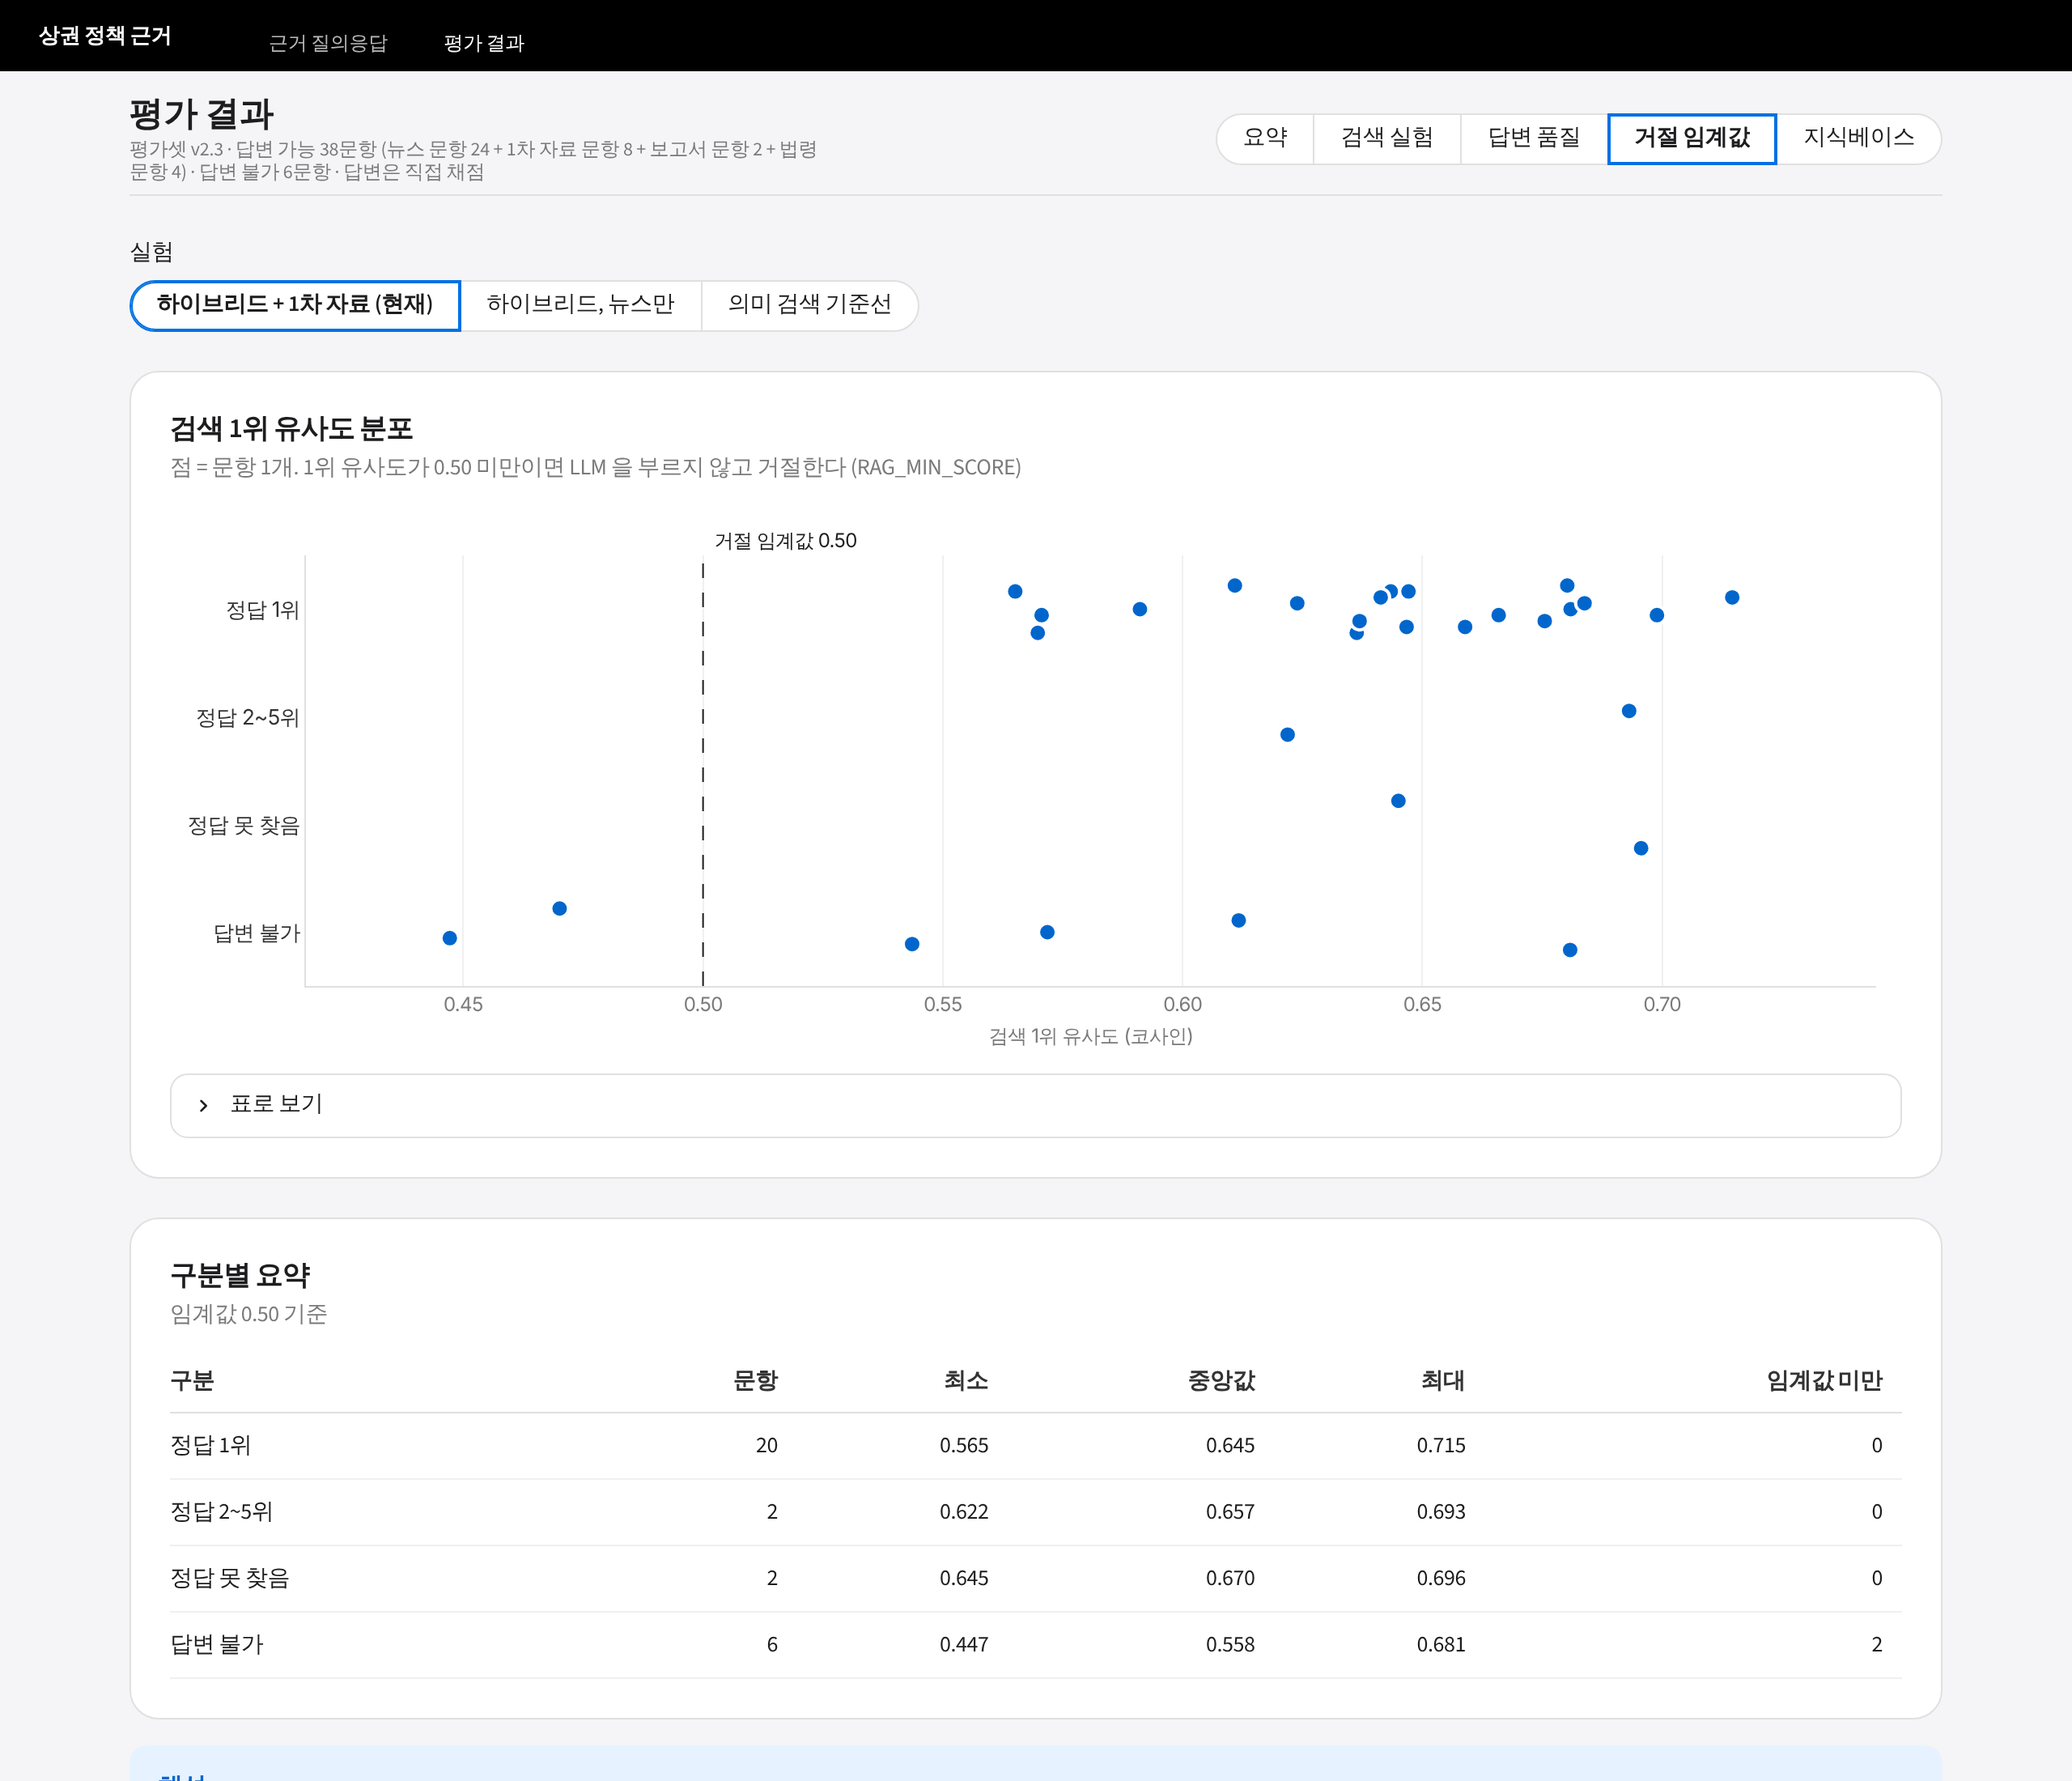
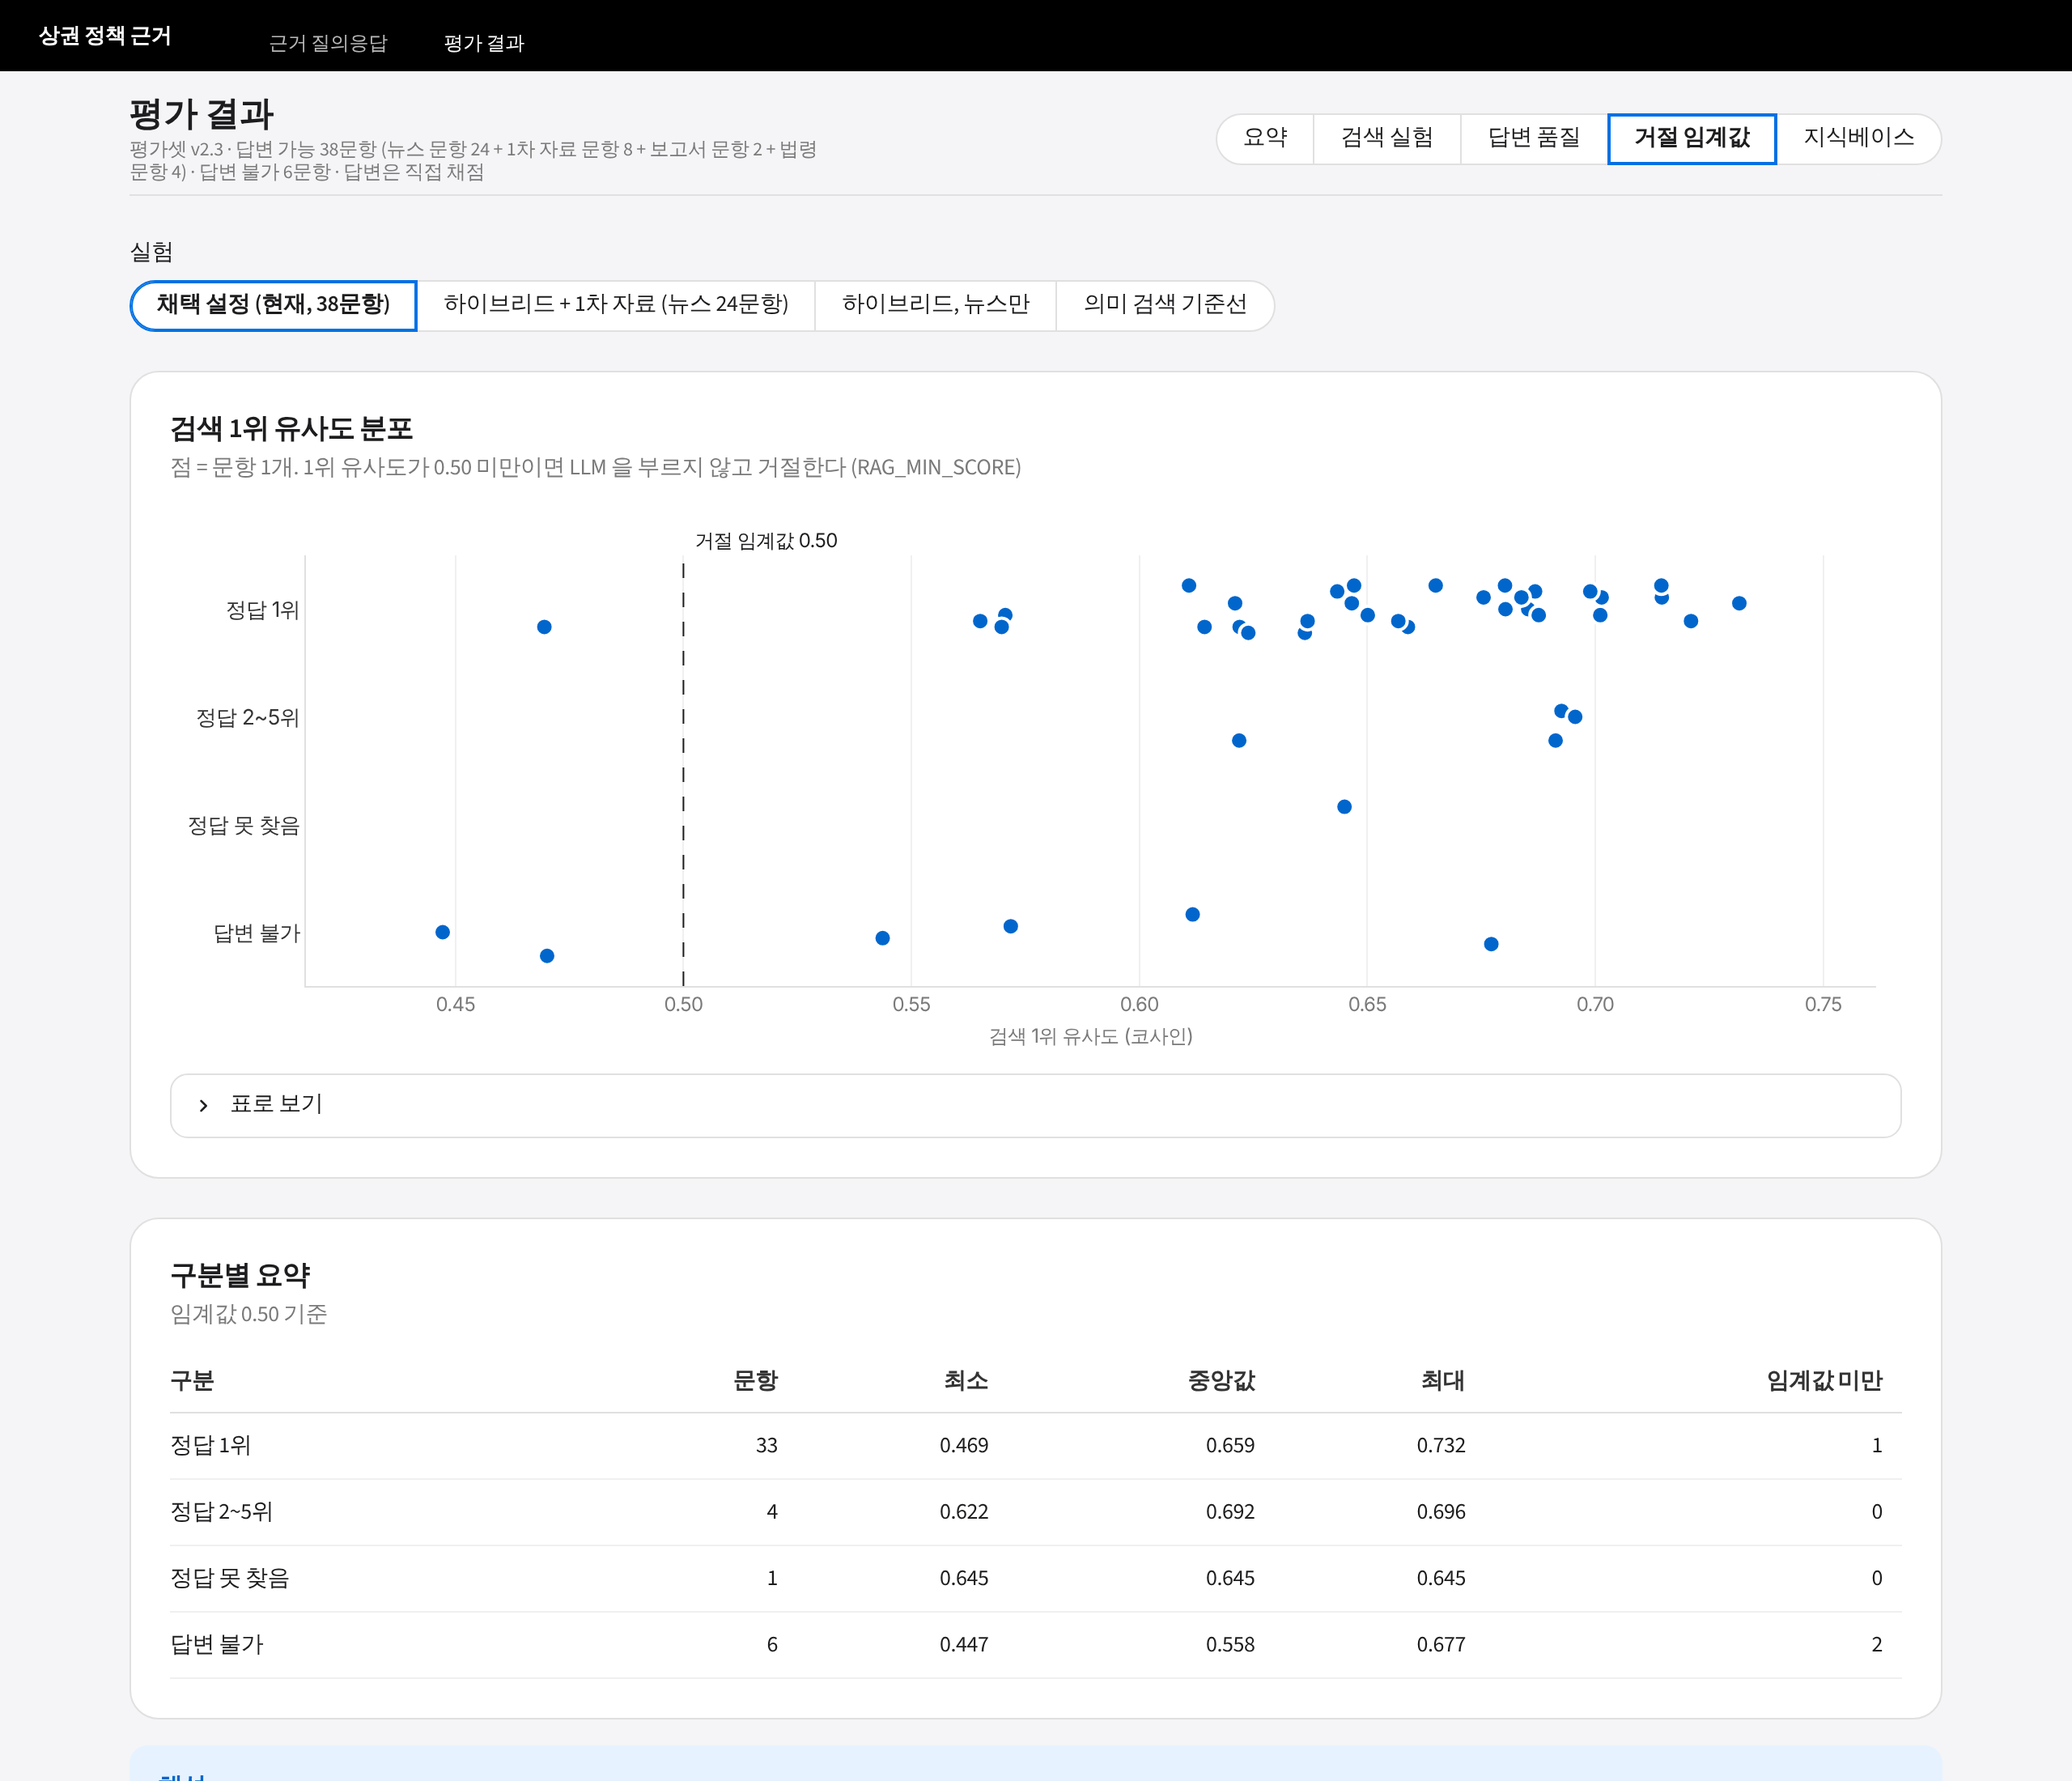
Base the threshold section on the final setting
Report 6.4 labelled its table "current knowledge base" but used the
kb2 run (24 news questions, before reports and laws), and the
dashboard marked that run "(current)". The table, text and dashboard
default now use the adopted kb4 run (38 questions): f021 at 0.4695 is
the only answerable question below 0.5, unanswerable range 0.447-0.677,
and a 0.68 threshold would reject 21 of 38. f021 is ranked 1st in all
final runs, so "1~3위" is corrected to "1위". Screenshot recaptured.

Claude-Session: https://claude.ai/code/session_01JVxi6QMSDH1QLEa5AgUpfM

diff --git a/app/experiments.py b/app/experiments.py
@@ -217,7 +217,8 @@ ADOPTED_RETRIEVAL_RUN = "20261105-0458_hybrid-c500-ctx2-kb4-r1-v2.3groups"
 
 # 거절 임계값 근거: 답변 불가 문항까지 포함한 검색 실험 (30문항)
 THRESHOLD_RUNS: tuple[RunRef, ...] = (
-    RunRef("20261104-1035_hybrid-c500-kb2-pdffix", "하이브리드 + 1차 자료 (현재)"),
+    RunRef("20261105-0458_hybrid-c500-ctx2-kb4-r1-v2.3groups", "채택 설정 (현재, 38문항)"),
+    RunRef("20261104-1035_hybrid-c500-kb2-pdffix", "하이브리드 + 1차 자료 (뉴스 24문항)"),
     RunRef("20261104-1019_hybrid-c500-v1.3", "하이브리드, 뉴스만"),
     RunRef("20261103-1702_baseline-c500-v1.2", "의미 검색 기준선"),
 )

diff --git a/report/report.md b/report/report.md
@@ -293,7 +293,7 @@ flowchart LR
 - 단계별로는 32문항 57.3%(1차 자료) → 61.5%(분해) → 62.5%(보고서), 34문항 64.7%(보고서) → 67.6%(법령 추가 후 같은 34문항, 실행 간 변동 범위)다.
   보고서·법령 문항을 더한 38문항은 65.8% 다 (7장).
 - 평균 응답 시간은 검색과 생성을 합쳐 2.5초다 (p95 4.6초). 비교 표현이 있는 질문에만 분해 LLM 호출이 더해진다.
-- 잘못된 거절은 f021 하나다. 정답 보도자료를 1~3위로 찾지만 1위 유사도가 0.47 로 임계값 미만이다 (8장).
+- 잘못된 거절은 f021 하나다. 정답 보도자료를 1위로 찾지만 1위 유사도가 0.47 로 임계값 미만이다 (8장).
 - 분해 전 잘못된 거절이던 t011·c003 은 거절 대신 시점이 다른 근거로 틀린 답을 한다 (8장). 등급은 같은 오답이지만 사용자에게는 더 위험한 실패다.
 
 ### 6.3 질문 유형별 정확도 (문항 × 3회 합산)
@@ -315,18 +315,18 @@ flowchart LR
 
 ![거절 임계값](img/dashboard-threshold.png)
 
-| 구분 (현재 지식베이스) | 문항 | 1위 유사도 범위 | 0.5 미만 |
+| 구분 (채택 설정, 평가셋 v2.3) | 문항 | 1위 유사도 범위 | 0.5 미만 |
 |---|---|---|---|
-| 정답이 1위 | 20 | 0.565 ~ 0.715 | 0 |
-| 정답이 2~5위 | 2 | 0.622 ~ 0.693 | 0 |
-| 정답을 상위 5건에서 못 찾음 | 2 | 0.645 ~ 0.696 | 0 |
-| 답변 불가 | 6 | 0.447 ~ 0.681 | 2 |
+| 정답이 1위 | 33 | 0.469 ~ 0.732 | 1 (f021) |
+| 정답이 2~5위 | 4 | 0.622 ~ 0.696 | 0 |
+| 정답을 상위 5건에서 못 찾음 | 1 | 0.645 | 0 |
+| 답변 불가 | 6 | 0.447 ~ 0.677 | 2 (u005·u009) |
 
-- 임계값 0.5 는 1위 유사도 분포를 보고 정했다.
-  - 이 값에서 뉴스 문항의 답변 가능 문항은 검색 단계에서 하나도 걸리지 않는다 (최솟값 0.565).
-  - 1차 자료 문항 f021(0.484)은 걸린다 (8장).
-- **유사도만으로는 답변 불가를 가를 수 없다.** 답변 불가 질문도 주제가 비슷한 기사가 검색되기 때문에, 답변 불가 6문항 중 4개가 0.5 이상이다 (최댓값 0.681).
-- 답변 불가를 모두 유사도로 거르려면 임계값이 0.68 을 넘어야 한다. 그러면 답변 가능 문항 대부분(중앙값 0.645)이 함께 거절된다.
+- 임계값 0.5 는 뉴스 24문항 시점(평가셋 v1.2)의 1위 유사도 분포를 보고 정했다. 그때는 답변 가능 문항이 하나도 걸리지 않았다 (최솟값 0.570).
+  - 최종 설정에서는 1차 자료 문항 f021(0.4695)이 걸린다. 정답 보도자료를 1위로 찾고도 검색 단계에서 거절한다 (8장).
+- **유사도만으로는 답변 불가를 가를 수 없다.** 답변 불가 질문도 주제가 비슷한 기사가 검색되기 때문에, 답변 불가 6문항 중 4개가 0.5 이상이다 (최댓값 0.677).
+  f021(0.4695)과 u005(0.470)는 사실상 같은 값이라 임계값을 조정해도 둘을 가를 수 없다.
+- 답변 불가를 모두 유사도로 거르려면 임계값이 0.68 을 넘어야 한다. 그러면 답변 가능 38문항 중 21개(중앙값 0.662)가 함께 거절된다.
 - 그래서 나머지는 생성 단계의 거절 규칙이 막는다. 실제로 3회 모두 6문항 전부 거절했다.
 
 ### 6.5 평가셋 밖 문항 (holdout, `eval/holdout.jsonl`)
@@ -486,7 +486,7 @@ flowchart LR
 
 | 문항 | 증상 | 원인 계층 | 판단 근거 |
 |---|---|---|---|
-| f021 부담경감 크레딧 | 3회 잘못된 거절 | **검색 (임계값)** | 정답 보도자료를 1~3위로 찾지만 1위 유사도가 0.47 로 임계값(0.5) 미만이다. 긴 보도자료 속 여러 사업 중 하나라 청크에서 사업명 비중이 희석된다. 키워드 1~2위면 0.44 이상도 통과시키는 규칙을 검토했지만 답변 불가 문항(0.41)과 차이가 작아 보류했다 |
+| f021 부담경감 크레딧 | 3회 잘못된 거절 | **검색 (임계값)** | 정답 보도자료를 1위로 찾지만 1위 유사도가 0.47 로 임계값(0.5) 미만이다. 긴 보도자료 속 여러 사업 중 하나라 청크에서 사업명 비중이 희석된다. 키워드 1~2위면 0.44 이상도 통과시키는 규칙을 검토했지만 답변 불가 문항(0.41)과 차이가 작아 보류했다 |
 | t011 2026년 중기부 예산 (정부안·국회 확정안) | 3회 오답 | **검색 · 데이터** (+생성) | 기사가 2026년을 '내년'으로 쓴다. 확정안 기사(16조5233억원)는 찾지만 정부안 기사를 못 찾고, 전년도 본예산(15조2488억원)을 정부안으로 썼다. 색인 단계 날짜 정규화로도 '내년 예산 확정' 류의 예년 기사가 상위를 지켰다 (7장 9) |
 | c003 서울시 vs 중기부 금융지원 (2026년 하반기) | 3회 오답 | **검색** | 2026-02 서울시 종합지원과 2024-09 중기부 은행 협약으로 답했다. 보강 문서를 연도로 거르면 2025-12 기사로 바뀔 뿐이다 (7장 8). 정답 '2027년도 예산안'과 질문 '2026년 하반기 계획'의 어휘가 달라 질의 확장이 필요하다 |
 | f031 지역사랑상품권 국가 재정 지원 | 오답 · 부분 · 부분 | **검색** (+생성) | 법령 제15조가 2025-07~08 개정 보도에 밀려 상위 5건 밖이다. 상임위 통과 보도를 근거로 '현행은 재량, 개정안에서 의무화'라고 시점을 섞었다 |
